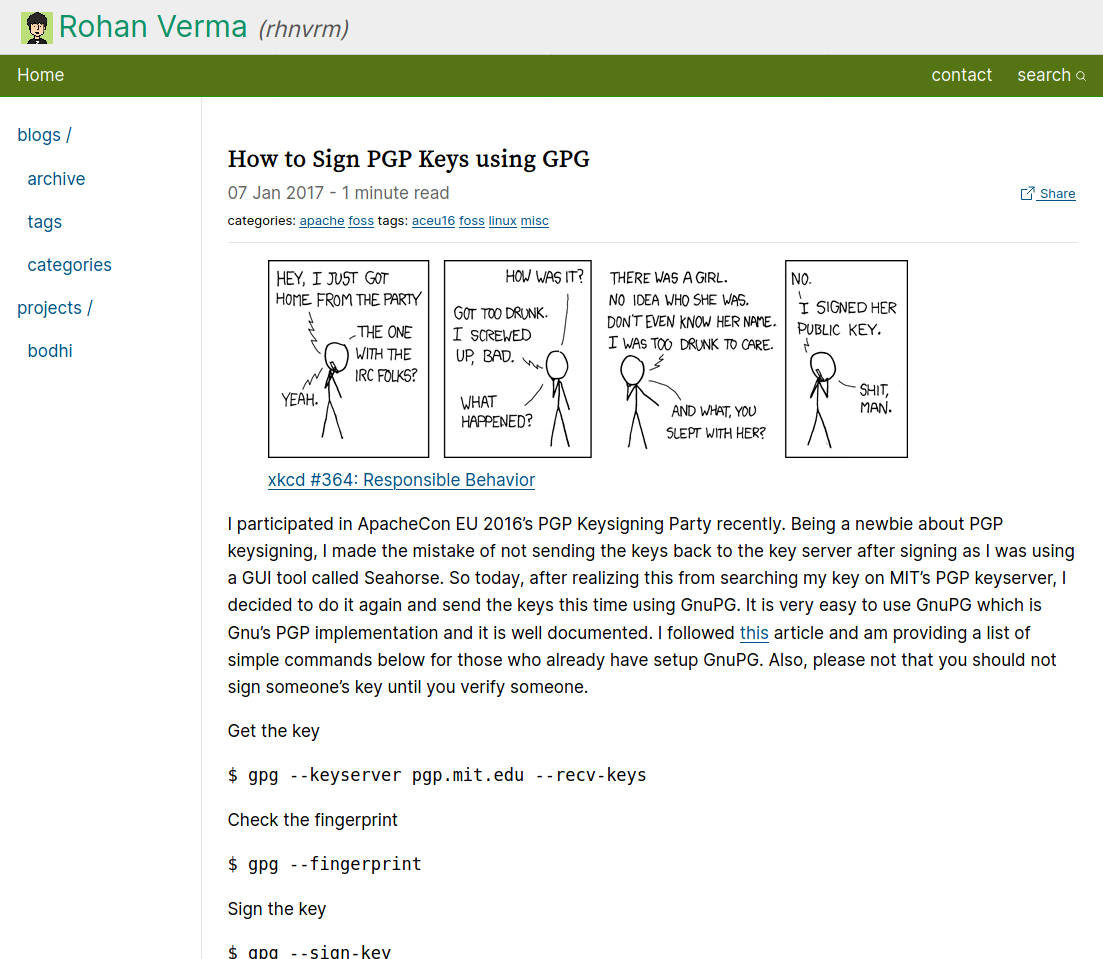
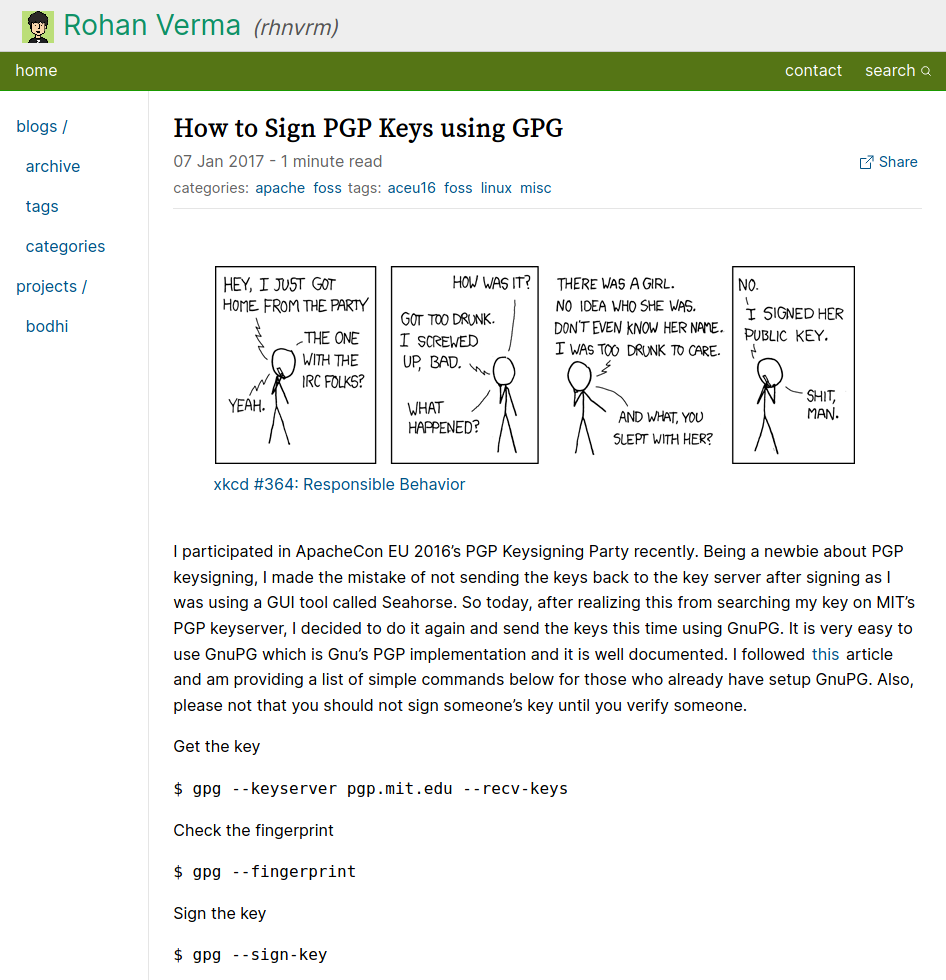
fix: minor design changes

diff --git a/content/blog/2019/2019-08-04-deep-work.md b/content/blog/2019/2019-08-04-deep-work.md
@@ -7,7 +7,6 @@ tags = ["books", "productivity"]
 title = "Deep Work by Cal Newport - A summary"
 type = "post"
 url = "blog/2019/06/26/deep-work-a-summary"
-
 +++
 
 I recently read the book `Deep Work: Rules for Focused Success in a Distracted World` by Cal Newport. Here are some important key notes from the book I liked. These are quotes from the book followed by some of my notes. 

diff --git a/content/blog/2019/2019-11-26-utopia-for-realists.md b/content/blog/2019/2019-11-26-utopia-for-realists.md
@@ -9,6 +9,8 @@ url = "blog/2019/11/26/utopia-for-realists"
 author = "Rohan Verma"
 +++
 
+![book](/blog/2019/utopia.png)
+
 This book was a recent recommendation from [Dr Kailash Nadh](https://nadh.in). A
 small but heavy book, that is engaging and well researched. Rutger Bregman has 
 done a thorough job of making arguments for three major policy ideas whose time

diff --git a/content/blog/2017/2017-07-27-216.md b/content/blog/2017/2017-07-27-216.md
@@ -9,6 +9,8 @@ url = "blog/2017/07/27/death-of-ivan-illyich/"
 author = "Rohan Verma"
 +++
 
+![book](/blog/2017/ivan.jpg)
+
 I had read this book a while ago, and it struck a chord with me. In essence,
 I think, this book has shaped my mental model in a deep way. I often ponder if
 I would have had a different world view if I had never read this book. Here

diff --git a/content/contact/_index.md b/content/contact/_index.md
@@ -1,7 +1,5 @@
 # Social
 
-
-
 |          |                                            |
 |----------|--------------------------------------------|
 | github   | https://github.com/rhnvrm                  |

diff --git a/content/projects/bodhi/index.md b/content/projects/bodhi/index.md
@@ -1,6 +1,7 @@
 ---
 title: Bodhi - Hugo Theme
 layout: article
+summary: Bodhi is a simple, minimal, personal website theme for Hugo.
 ---
 
 Bodhi is a simple, minimal, personal website theme for Hugo.
